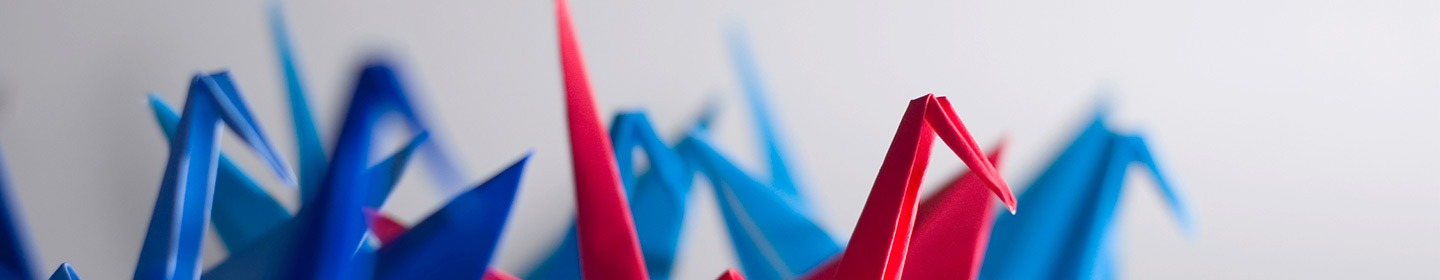
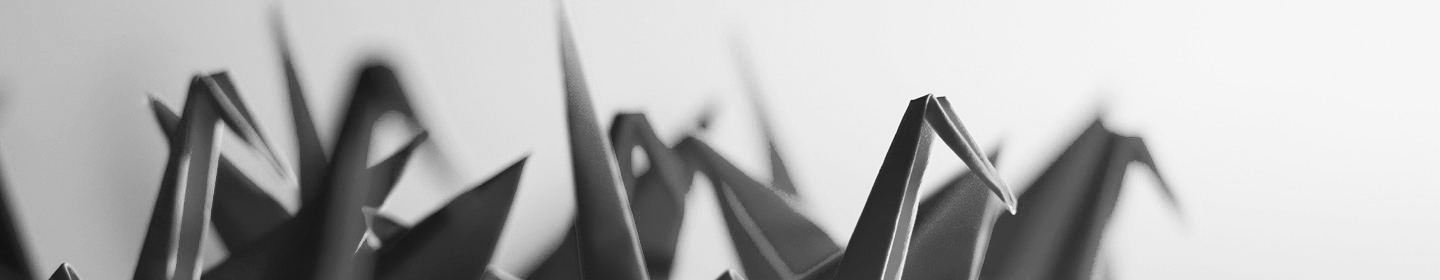
style up theme
- added block background images
- updated variables

diff --git a/less/theme.less b/less/theme.less
@@ -23,16 +23,34 @@
 	padding-top: 280px;
 	background-image: url('assets/backgroundA.jpg');
 	background-repeat:no-repeat;
+	background-position:top center;
+	 @media all and (max-width:@device-width-small) {
+        padding-top: 150px;
+		background-image: url('assets/backgroundA-mobile.jpg');
+		max-width: 520px;
+    }
 }
 
 .image-block-2 {
 	padding-top: 280px;
 	background-image: url('assets/backgroundB.jpg');
 	background-repeat:no-repeat;
+	background-position:top center;
+	 @media all and (max-width:@device-width-small) {
+        padding-top: 150px;
+		background-image: url('assets/backgroundB-mobile.jpg');
+		max-width: 520px;
+    }
 }
 
 .image-block-3 {
 	padding-top: 280px;
 	background-image: url('assets/backgroundC.jpg');
 	background-repeat:no-repeat;
+	background-position:top center;
+	 @media all and (max-width:@device-width-small) {
+        padding-top: 150px;
+		background-image: url('assets/backgroundC-mobile.jpg');
+		max-width: 520px;
+    }
 }

diff --git a/less/page.less b/less/page.less
@@ -11,7 +11,20 @@
     }
     .page-title-inner {
         padding: @page-title-padding;
-        border-bottom: 2px solid #fff;
-        .responsive-layout;
+        border-bottom: 4px solid @tertiary-color;
+        @media all and (min-width:@device-width-large) {
+            width:(@device-width-large - 40px);
+            margin:0 auto;
+        }
+    
+        @media all and (max-width:@device-width-large) {
+            max-width: 90%;
+            margin: 0 auto;
+        }
+
+        @media all and (max-width:@device-width-small) {
+            max-width: 90%;
+            margin: 0 auto;
+        }
     }
 }

diff --git a/less/variables.less b/less/variables.less
@@ -40,7 +40,7 @@
 // Button
 // ======
 @button-color:@primary-color;
-@button-hover-color:darken(@primary-color, 20%);
+@button-hover-color:@tertiary-color;
 @button-disabled-color:#ccc;
 
 @button-text-color:#fff;
@@ -73,7 +73,7 @@
 // Global spacing
 // ==============
 @content-padding:40px 20px;
-@page-title-padding:80px 40px 80px 40px;
+@page-title-padding:80px 0px 80px 0px;
 @article-title-padding:40px 20px 0px;
 @article-body-padding:80px 20px 80px 20px;
 @block-title-padding:40px 0px 0px;

diff --git a/less/article.less b/less/article.less
@@ -9,14 +9,14 @@
     .article-padding {
         .responsive-layout;
         padding: @article-body-padding;
+        padding-right:0px;
+        padding-left:0px;
     }
     .article-title {
         text-align: left;
         padding: 20px 20px 10px 20px;
     }
     .article-title-inner {
-        
-        
         background-color:@background-color;
     }
     .article-body {

diff --git a/less/navigation.less b/less/navigation.less
@@ -6,6 +6,9 @@
     .ie8 & {
         max-width:@ie8-max-width;
     }
+/*    .page-level-progress-navigation-bar {
+        background-color: #fff;
+    }*/
     background-color:@navigation-color;
     height:@navigation-height;
     @media all and (max-width:(@device-width-medium - 1px)) {

diff --git a/less/layout.less b/less/layout.less
@@ -2,6 +2,7 @@
     width:100%;
     .ie8 & {
         max-width:@ie8-max-width;
+        margin: 0 auto;
     }
     padding-top:@navigation-height;
     @media all and (max-width:(@device-width-medium - 1px)) {
